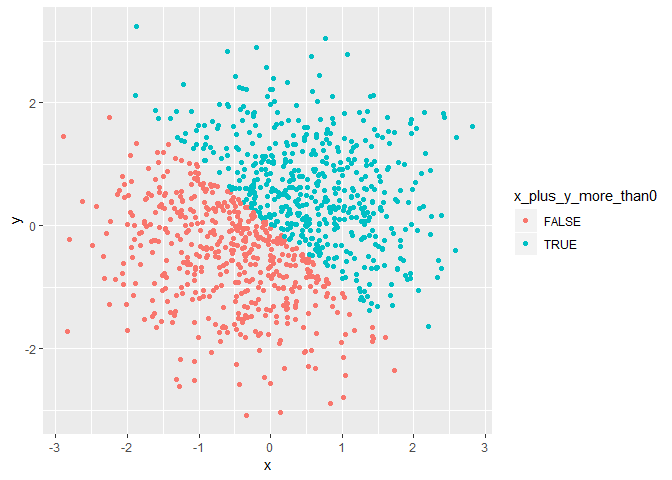
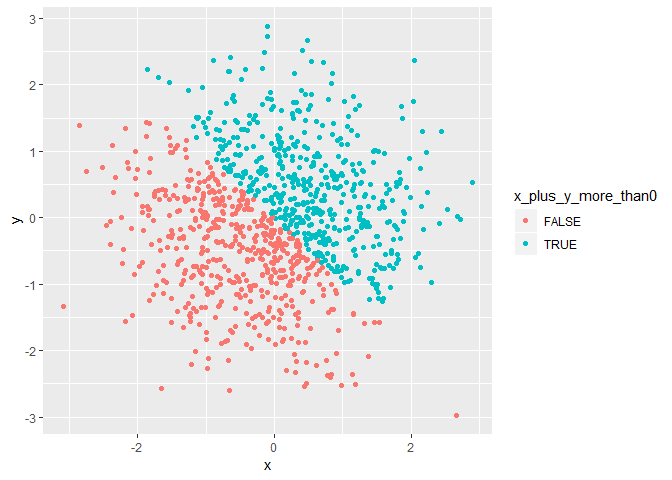
use ncol() and nrow() for size

diff --git a/P8105_hw1_jy2947.md b/P8105_hw1_jy2947.md
@@ -19,13 +19,13 @@ dataframe = tibble(
 mean(dataframe$sample)
 ```
 
-    ## [1] 2.731187
+    ## [1] 2.514928
 
 ``` r
 mean(dataframe$morethan2)
 ```
 
-    ## [1] 0.8
+    ## [1] 0.6
 
 ``` r
 mean(dataframe$p1_cha)
@@ -106,7 +106,7 @@ norm_distri = tibble(
 )
 ```
 
-The size of the dataset is 3.389610^{4}. The mean of x is 0.0194914. The median of x is 0.0143733. The proportion of cases for which the logical vector is `TRUE` is 0.505.
+The data frame has 1000 rows and 5 columns. The mean of x is -0.0182009. The median of x is 0.0147601. The proportion of cases for which the logical vector is `TRUE` is 0.495.
 
 The following code chunk creates the scatter plot of `x_plus_y_more_than0` in `norm_distri` and saves the plot in a pdf file.
 
